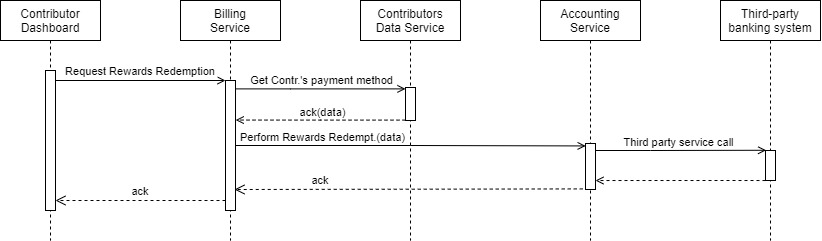
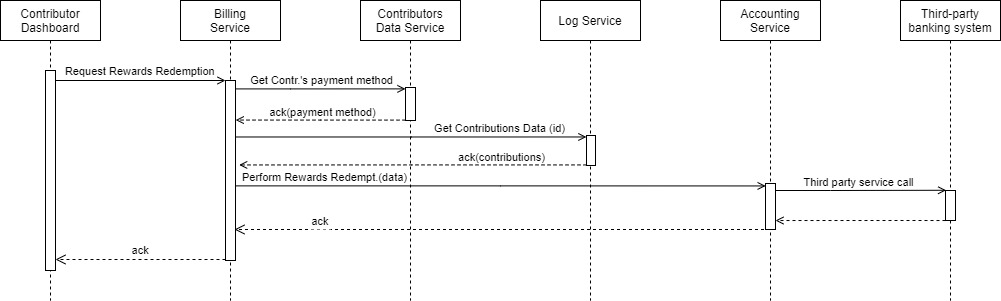
completed Contributor's use cases explaination

diff --git a/document/chapters/chapter_6/sections/2_use_cases_satisfaction_interaction_among_architectural_elements.tex b/document/chapters/chapter_6/sections/2_use_cases_satisfaction_interaction_among_architectural_elements.tex
@@ -97,31 +97,40 @@ This section will show how the entities introduced in the Architecture just pres
 
         \item \textbf{\textit{Check if Contributing Endpoints are currently Contributing}}\\
         The Node exposes functions that tell the current status regarding the Grid connection and if a Contribution to a Task is currently being performed; such information is displayed in the Contributing Endpoint's GUI.
-        
+
     \end{itemize}
-    \item \textbf{Manage Contribution data through a Dashboard}\\
+    \item \textbf{Manage Contribution data through a Dashboard}
     \begin{itemize}
-        \item \textit{Check past Contributions}\\
+        \item \textbf{\textit{Check past Contributions}}\\
         \begin{figure}[!ht]
             \centering
             \includegraphics[scale=0.65]{document/chapters/chapter_6/images/use_cases_satisfaction_past_contributions_check.jpg}
             \caption{Contributor's past Contributions check}
             \label{fig:use_cases_satisfaction_past_contributions_check}
         \end{figure}
-        \item \textit{Check Rewards Balance}\\
+
+        The Contributor Dashboard contacts the Historian Service, asking for the past contributions linked to the Contributor's Contributing Endpoints; the Historian Service contacts the Log service where the data is stored (see \textit{figure \ref{fig:use_cases_satisfaction_rewards_accumulation}}). Finally, the information is retrieved and then shown in the Contributor Dashboard.
+
+        \item \textbf{\textit{Check Rewards Balance}}\\
         \begin{figure}[!ht]
             \centering
-            \includegraphics[scale=0.65]{document/chapters/chapter_6/images/use_cases_satisfaction_rewards_balance.jpg}
+            \includegraphics[scale=0.6]{document/chapters/chapter_6/images/use_cases_satisfaction_rewards_balance.jpg}
             \caption{Contributor's Rewards Balance check}
             \label{fig:use_cases_satisfaction_rewards_balance}
         \end{figure}
-        \item \textit{Rewards Redemption}\\
+
+        The Contributor Data retrieves, through a communication with the Billing Service, its current Rewards Balance. In order to calculate the current balance, the Billing service contacts both the Log Service (to obtain the Contribution data) and the Accounting Service (to obtain past Rewards Redemptions). The Rewards Balance is calculated by the Billing Service by summing the monetary value of the Contributions and subtracting from it the total Rewards Redemption. 
+
+        \item \textbf{\textit{Rewards Redemption}}\\
         \begin{figure}[!ht]
             \centering
             \includegraphics[width=\linewidth]{document/chapters/chapter_6/images/use_cases_satisfaction_rewards_redemption.jpg}
             \caption{Contributor's Rewards Redemption}
             \label{fig:use_cases_satisfaction_rewards_redemption}
         \end{figure}
+
+        The Contributor Dashboard asks the Billing Service the execution of a Rewards Redemption. First the Contributors Data Service is contacted in order to retrieve the Contributor's payment method; then, the Log Service is contacted in order to retrieve the past Contributions data. Finally, the Accounting Service is interpellated, asking for the actual operation. The Accounting Service (that can access the past Rewards Redemptions on its own), performs the calculus of the Current Balance and, if the Balance is equal or higher than Rewards Threshold and, at the same time, compatible with the requested sum to redeem, the operation is finalized contacting a Third-party Banking System.
+
     \end{itemize}
 \end{itemize}
 
